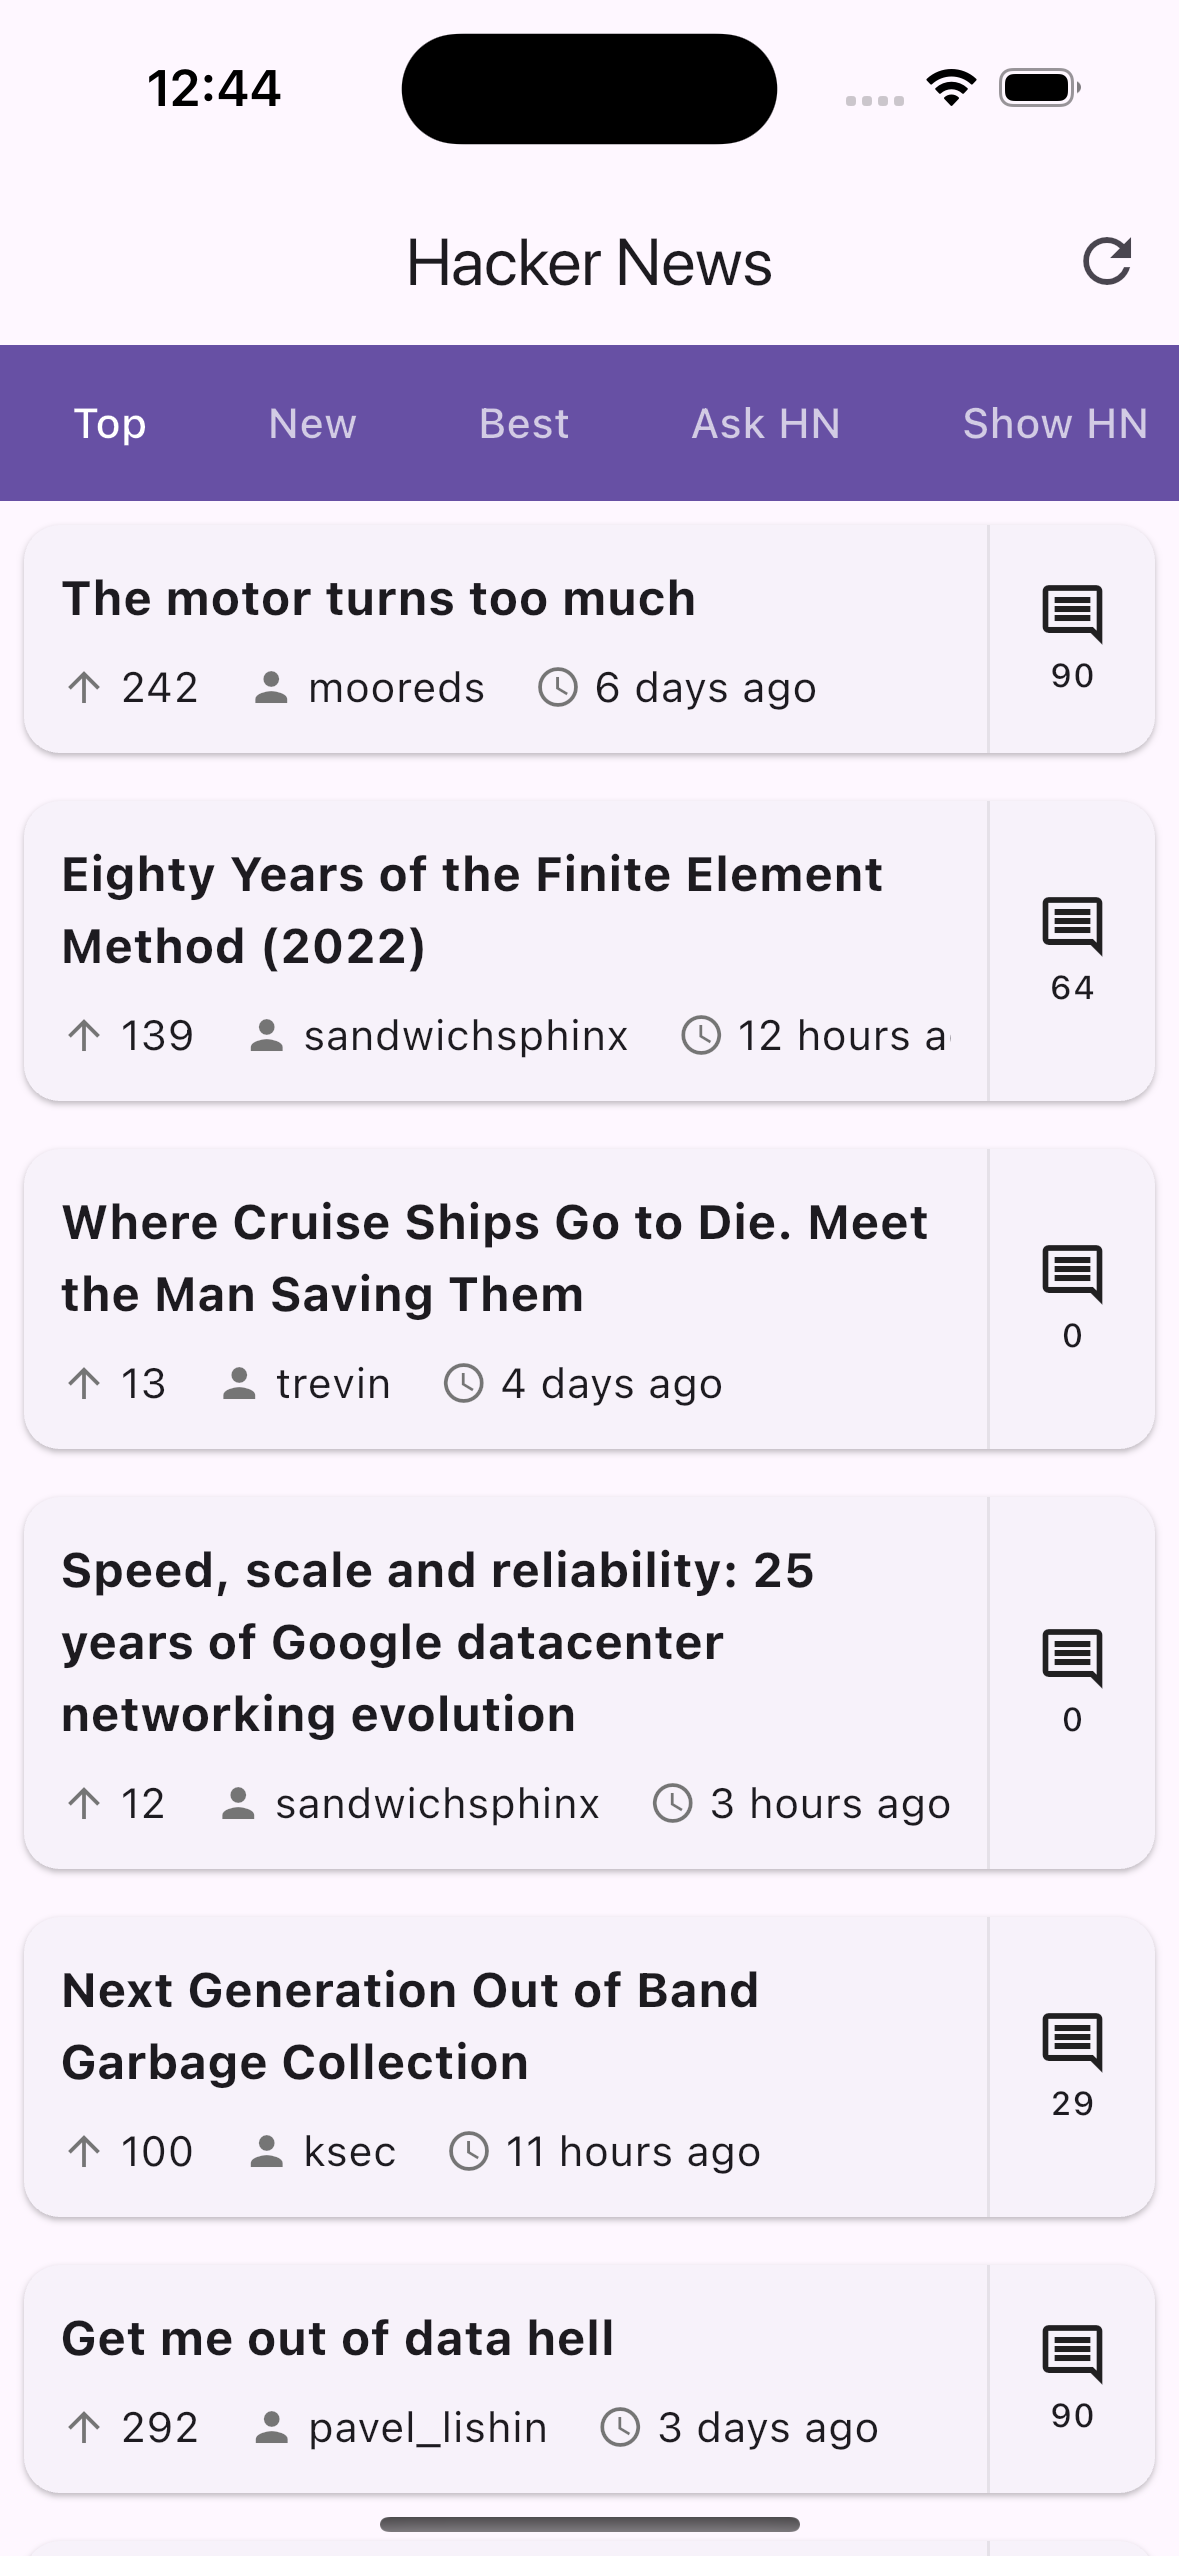
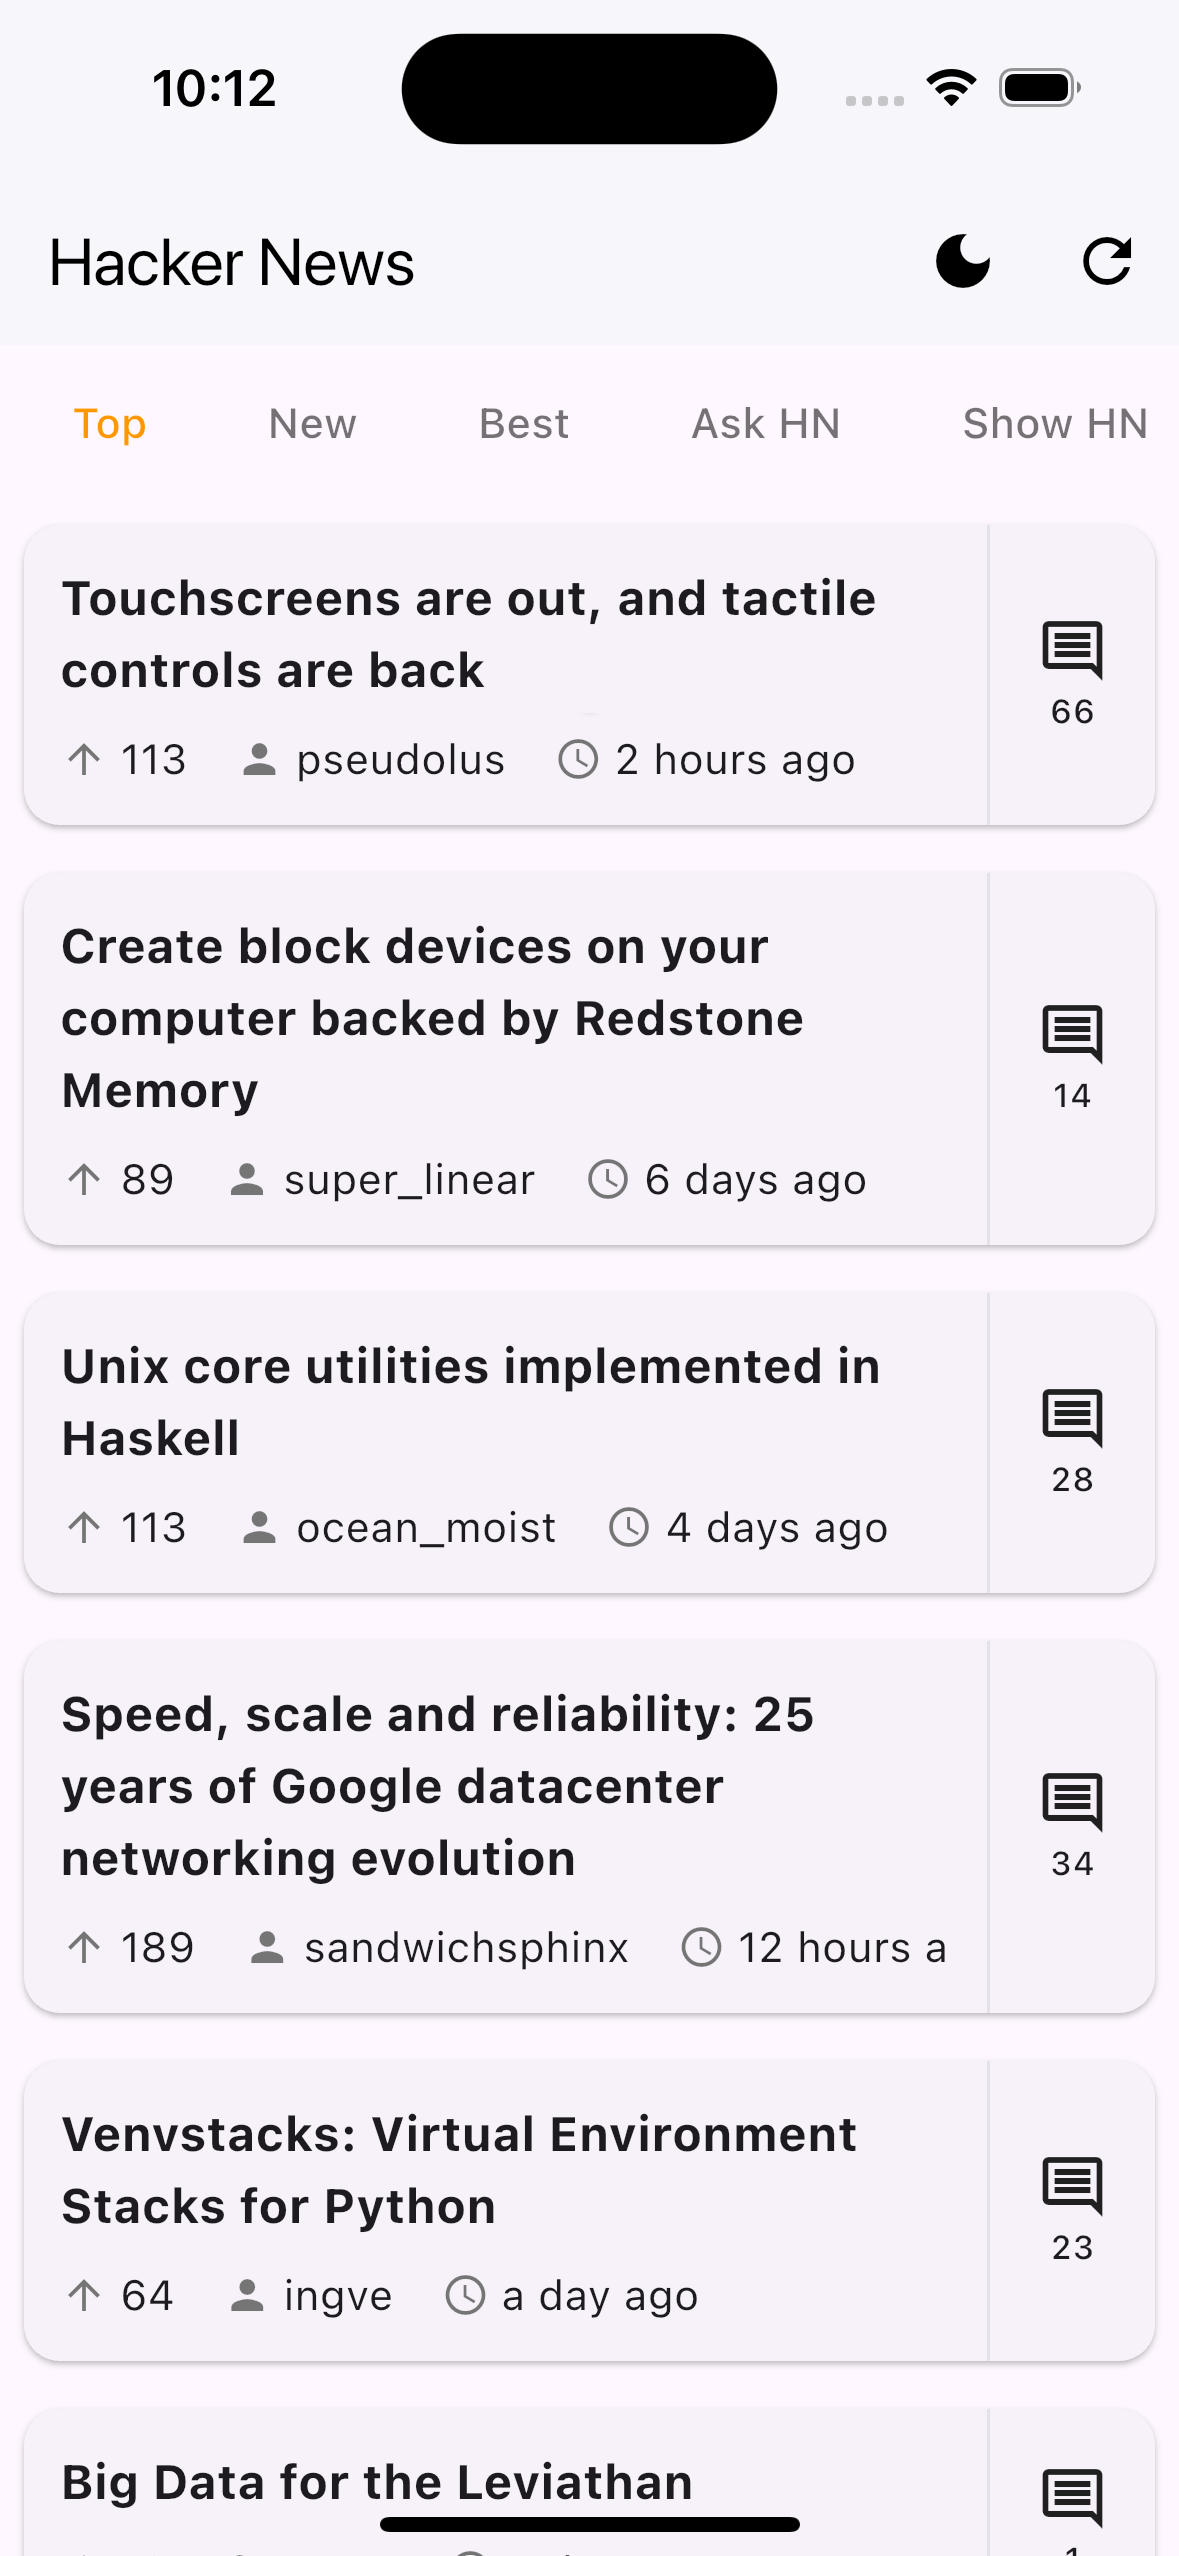
Added theme switcher

diff --git a/lib/main.dart b/lib/main.dart
@@ -1,4 +1,3 @@
-// lib/main.dart
 import 'package:flutter/material.dart';
 import 'package:http/http.dart' as http;
 import 'dart:convert';
@@ -9,8 +8,22 @@ void main() {
   runApp(const HackerNewsApp());
 }
 
-class HackerNewsApp extends StatelessWidget {
-  const HackerNewsApp({Key? key}) : super(key: key);
+class HackerNewsApp extends StatefulWidget {
+  const HackerNewsApp({super.key});
+
+  @override
+  State<HackerNewsApp> createState() => _HackerNewsAppState();
+}
+
+class _HackerNewsAppState extends State<HackerNewsApp> {
+  ThemeMode _themeMode = ThemeMode.system;
+
+  void _toggleTheme() {
+    setState(() {
+      _themeMode =
+          _themeMode == ThemeMode.light ? ThemeMode.dark : ThemeMode.light;
+    });
+  }
 
   @override
   Widget build(BuildContext context) {
@@ -19,19 +32,27 @@ class HackerNewsApp extends StatelessWidget {
       theme: ThemeData(
         primarySwatch: Colors.orange,
         brightness: Brightness.light,
+        appBarTheme: const AppBarTheme(
+          backgroundColor: Colors.white,
+          foregroundColor: Colors.black,
+          elevation: 1,
+        ),
       ),
       darkTheme: ThemeData(
         primarySwatch: Colors.orange,
         brightness: Brightness.dark,
       ),
-      home: const HomePage(),
+      themeMode: _themeMode,
+      home: HomePage(onThemeToggle: _toggleTheme),
       debugShowCheckedModeBanner: false,
     );
   }
 }
 
 class HomePage extends StatefulWidget {
-  const HomePage({Key? key}) : super(key: key);
+  final VoidCallback onThemeToggle;
+
+  const HomePage({Key? key, required this.onThemeToggle}) : super(key: key);
 
   @override
   _HomePageState createState() => _HomePageState();
@@ -56,7 +77,8 @@ class _HomePageState extends State<HomePage> {
   }
 
   void _onScroll() {
-    if (_scrollController.position.pixels >= _scrollController.position.maxScrollExtent - 500) {
+    if (_scrollController.position.pixels >=
+        _scrollController.position.maxScrollExtent - 500) {
       _loadMoreStories();
     }
   }
@@ -81,7 +103,8 @@ class _HomePageState extends State<HomePage> {
 
     try {
       if (initial) {
-        final endpoint = _currentTab == 'jobs' ? 'jobstories' : '${_currentTab}stories';
+        final endpoint =
+            _currentTab == 'jobs' ? 'jobstories' : '${_currentTab}stories';
         final response = await http.get(
           Uri.parse('https://hacker-news.firebaseio.com/v0/$endpoint.json'),
         );
@@ -134,7 +157,9 @@ class _HomePageState extends State<HomePage> {
 
       if (mounted) {
         setState(() {
-          _stories.addAll(results.where((story) => story != null).cast<Map<String, dynamic>>());
+          _stories.addAll(results
+              .where((story) => story != null)
+              .cast<Map<String, dynamic>>());
           _isLoading = false;
           _hasMoreStories = _stories.length < _storyIds.length;
         });
@@ -173,13 +198,15 @@ class _HomePageState extends State<HomePage> {
     final author = story['by'] ?? 'unknown';
     final score = story['score'] ?? 0;
     final commentCount = story['descendants'] ?? 0;
-    final time = DateTime.fromMillisecondsSinceEpoch((story['time'] ?? 0) * 1000);
+    final time =
+        DateTime.fromMillisecondsSinceEpoch((story['time'] ?? 0) * 1000);
     final url = story['url'];
     final id = story['id'];
 
     return Card(
       margin: const EdgeInsets.all(8.0),
-      child: IntrinsicHeight(  // This ensures both sides have same height
+      child: IntrinsicHeight(
+        // This ensures both sides have same height
         child: Row(
           children: [
             // Main content area - clickable
@@ -193,9 +220,10 @@ class _HomePageState extends State<HomePage> {
                     children: [
                       Text(
                         title,
-                        style: Theme.of(context).textTheme.titleMedium?.copyWith(
-                          fontWeight: FontWeight.bold,
-                        ),
+                        style:
+                            Theme.of(context).textTheme.titleMedium?.copyWith(
+                                  fontWeight: FontWeight.bold,
+                                ),
                       ),
                       const SizedBox(height: 8.0),
                       SingleChildScrollView(
@@ -206,7 +234,8 @@ class _HomePageState extends State<HomePage> {
                             const SizedBox(width: 16),
                             _buildInfoItem(Icons.person, author),
                             const SizedBox(width: 16),
-                            _buildInfoItem(Icons.access_time, timeago.format(time)),
+                            _buildInfoItem(
+                                Icons.access_time, timeago.format(time)),
                           ],
                         ),
                       ),
@@ -306,6 +335,12 @@ class _HomePageState extends State<HomePage> {
         title: const Text('Hacker News'),
         actions: [
           IconButton(
+            icon: Icon(Theme.of(context).brightness == Brightness.light
+                ? Icons.dark_mode
+                : Icons.light_mode),
+            onPressed: widget.onThemeToggle,
+          ),
+          IconButton(
             icon: const Icon(Icons.refresh),
             onPressed: _isLoading ? null : _refreshStories,
           ),
@@ -388,8 +423,12 @@ class _HomePageState extends State<HomePage> {
   }
 
   Widget _buildTabBar() {
+    final brightness = Theme.of(context).brightness;
+    final isLight = brightness == Brightness.light;
+    final backgroundColor = Theme.of(context).scaffoldBackgroundColor;
+
     return Container(
-      color: Theme.of(context).primaryColor,
+      color: isLight ? backgroundColor : Theme.of(context).primaryColor,
       padding: const EdgeInsets.symmetric(vertical: 8),
       child: SingleChildScrollView(
         scrollDirection: Axis.horizontal,
@@ -416,10 +455,15 @@ class _HomePageState extends State<HomePage> {
   }
 
   Widget _buildTabButton(String tab, String label) {
+    final brightness = Theme.of(context).brightness;
+    final isLight = brightness == Brightness.light;
+
     return TextButton(
       onPressed: _isLoading ? null : () => _changeTab(tab),
       style: TextButton.styleFrom(
-        foregroundColor: _currentTab == tab ? Colors.white : Colors.white70,
+        foregroundColor: _currentTab == tab
+            ? (isLight ? Colors.orange : Colors.white)
+            : (isLight ? Colors.black54 : Colors.white70),
         padding: const EdgeInsets.symmetric(horizontal: 16, vertical: 8),
         minimumSize: Size.zero,
         tapTargetSize: MaterialTapTargetSize.shrinkWrap,
